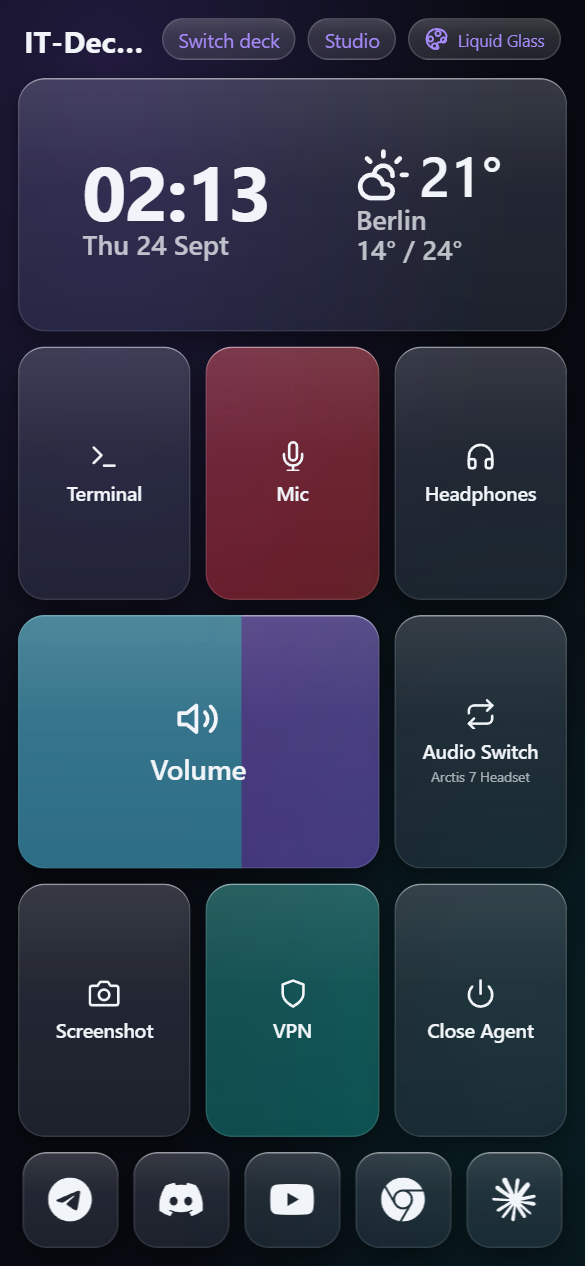
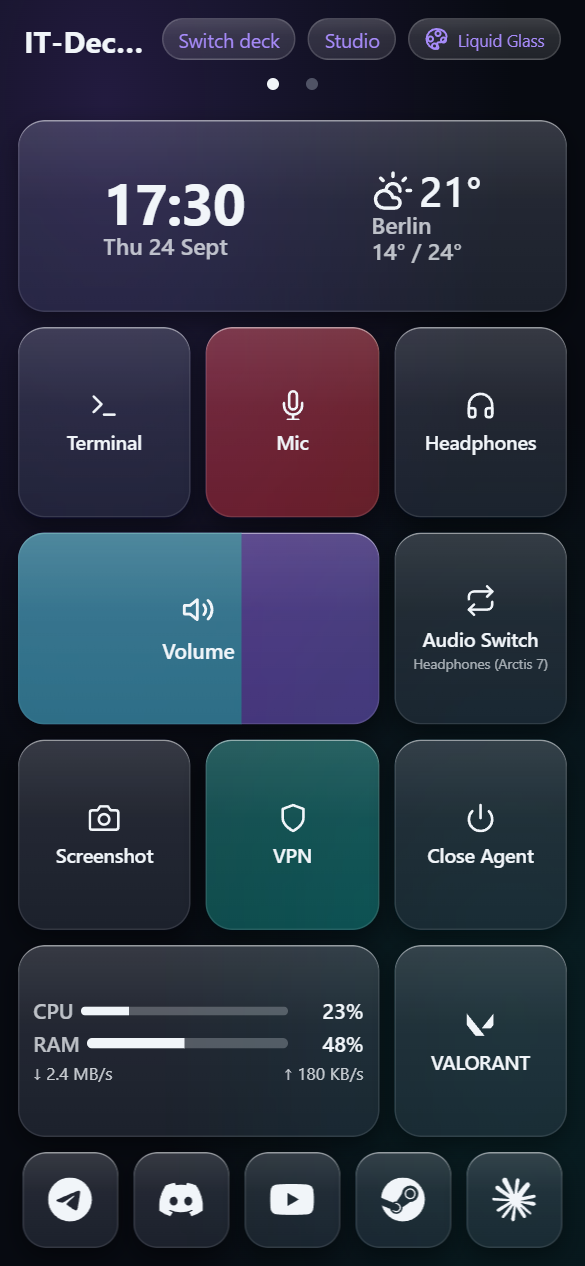
docs: README screenshots retaken for v0.5.7
All four were from v0.5.1. The deck now shows two decks' dots, the PC-load
widget, a game logo and Steam in the quick-launch bar; Studio shows Decks,
Access, What's new and the game logos; the PC window is the Studio-styled
one with New phone PIN and Start with Windows. Taken from a throwaway
backend with a state-only fake agent and a fixed weather reply.

diff --git a/README.md b/README.md
@@ -10,12 +10,13 @@ actually doing.
 
 | The deck, on your phone | Studio, on the PC |
 | --- | --- |
-| <img src="docs/screenshots/dashboard.png" alt="The IT-Deck deck on a phone: a clock and weather widget, the Mic tile red while muted, Volume at 62 %, Audio Switch showing the current device, VPN lit while it runs, and the quick-launch bar along the bottom: Telegram, Discord, YouTube, Chrome, Claude" width="300"> | ![Studio: a live preview of the deck next to the editor for a Website tile, with one-tap presets for popular sites](docs/screenshots/studio.png) |
+| <img src="docs/screenshots/dashboard.png" alt="The IT-Deck deck on a phone: two dots for two decks, a clock and weather widget, the Mic tile red while muted, Volume at 62 %, Audio Switch showing the current device, VPN lit while it runs, a PC-load widget with CPU, RAM and network speed, a VALORANT tile, and the quick-launch bar along the bottom: Telegram, Discord, YouTube, Steam, Claude" width="300"> | ![Studio: a live preview of the deck next to the editor for an app tile, VALORANT, with logos of popular apps, games and launchers; the top bar has Decks, Access and What's new](docs/screenshots/studio.png) |
 
 The tiles report real state, not just clicks: above, the microphone is
 **muted** (red), volume sits at **62 %**, Audio Switch names the **current
-output device**, and **VPN is lit** because the client is running. Along the
-bottom is the **quick-launch bar** — sites and programs one tap away (it moves
+output device**, **VPN is lit** because the client is running, and the
+**PC-load widget** shows CPU, memory and network speed. The dots at the top
+are **decks**: swipe to the next one. Along the bottom is the **quick-launch bar** — sites and programs one tap away (it moves
 to the left side when the phone is sideways). **Studio** (right) is where the
 deck is built — click a tile in the live preview to edit it, `+` to add one,
 drag to move.
@@ -34,7 +35,7 @@ Python on that machine.
    run it. The first time, a short tour walks you through setup; after that
    this window stays open:
 
-   <img src="docs/screenshots/window.png" alt="The IT-Deck window, in Studio's dark glass style: a header saying IT-Deck is running, step 1 with a QR code, the link, Copy link and New phone PIN, step 2 opening Studio, step 3 explaining Minimize and Quit with Start IT-Deck with Windows; Tutorial replays the first-run tour" width="518">
+   <img src="docs/screenshots/window.png" alt="The IT-Deck window, in Studio's dark glass style: a header saying IT-Deck is running, step 1 with a QR code, the link, Copy link and New phone PIN, step 2 opening Studio, step 3 explaining Minimize and Quit with Start IT-Deck with Windows; Tutorial replays the first-run tour" width="535">
 
 2. **Point your phone's camera at the QR code**, on the same Wi-Fi. That is
    the only required step — the token is in the link, and the phone keeps it.
